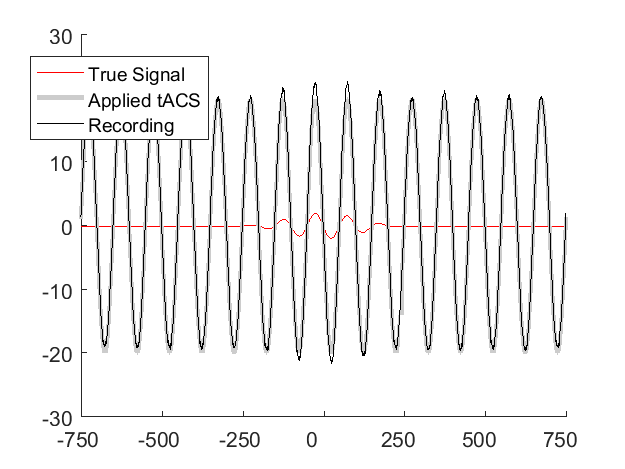
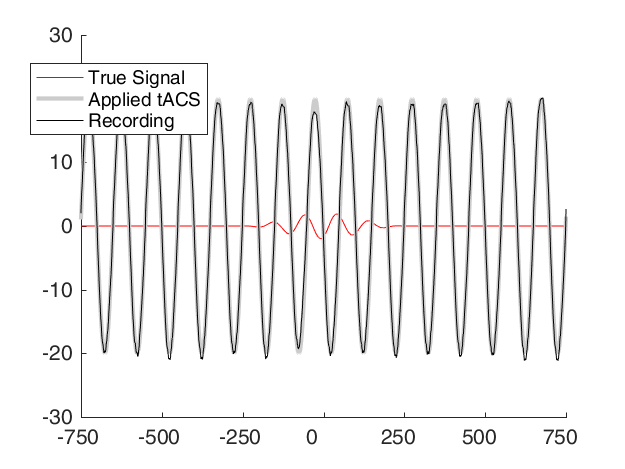
Correct Periodic Distortion to normal

diff --git a/src/+generate/generic.m b/src/+generate/generic.m
@@ -7,16 +7,15 @@ setup.erpMagnitude      = 0;
 setup.eoFreq            = 10;
 setup.eoModulation      = 2;
 %setup.eoPhase           = 'random';
-setup.eoPhase           = 0;
+setup.eoPhase           = 90;
 
 % tacs parameters
 setup.tacsFreq          = 10;
 setup.tacsMagnitude     = 20;
 setup.tacsSaturate      = Inf;
-setup.tacsDistort       = 0.05;
-%setup.tacsPhase         = 'random';
+setup.tacsDistort       = 0.2;
+setup.tacsPhase         = 'random';
 setup.tacsPhase         = 0;
-
 
 % level of impedance fluctutations -> tacs amplitude modulation
 setup.tacsModulation    = [.5,.5]; %variability, stiffness

diff --git a/src/+generate/distortion.m b/src/+generate/distortion.m
@@ -1,5 +1,7 @@
 function d = distortion(setup)
     period  = setup.Fs/setup.tacsFreq;
-    d       = rand(1,period,1)*setup.tacsDistort;
+    L       = fix(period)./4;
+    d       = normrnd(0,1,1,period,1)*setup.tacsDistort;
+    d       = conv(d,ones(L,1)./L,'same');
     d       = (repmat(d,1,setup.L*setup.tacsFreq));
 end
